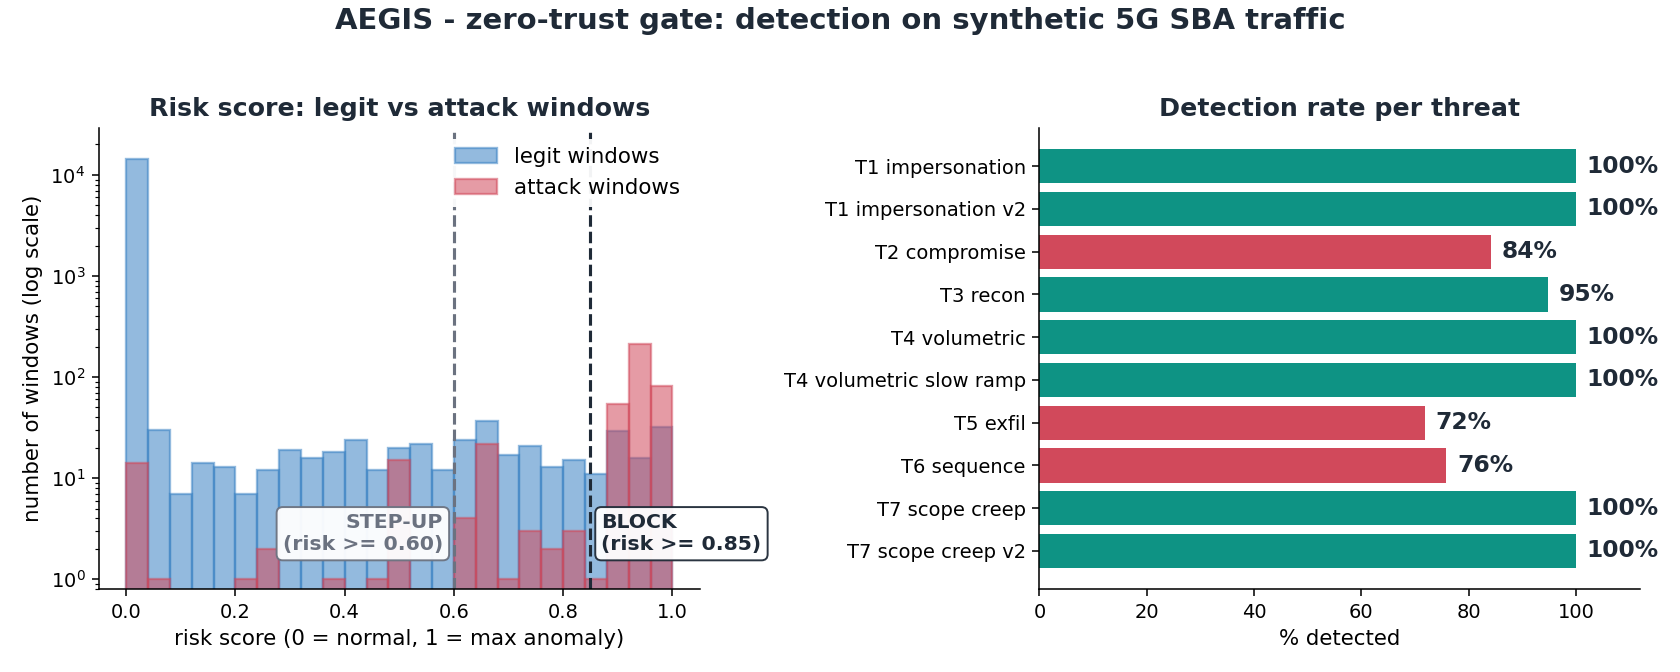
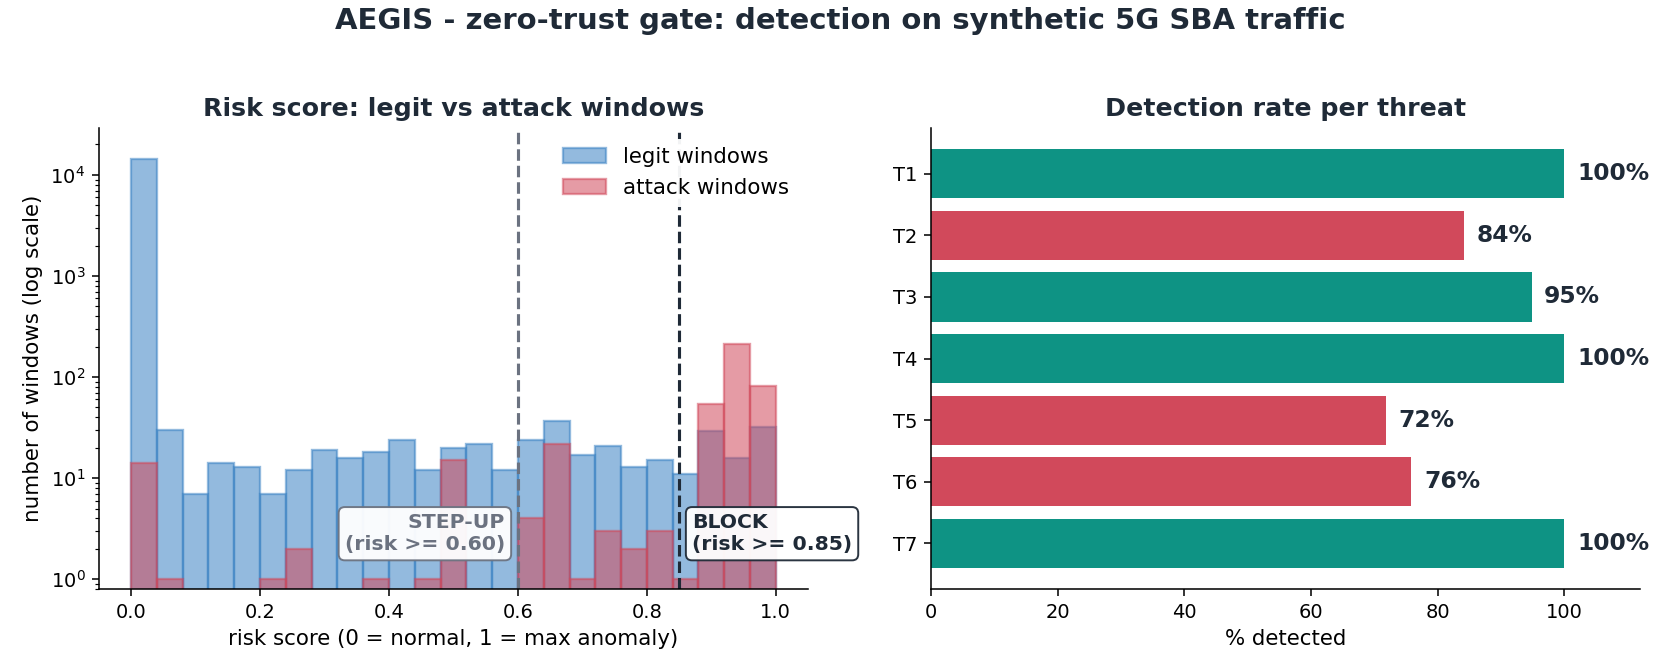
Collapse per-threat charts to 7 bars (T1-T7) instead of plotting variants separately
Both the baseline-comparison chart (slide 12) and the eval chart (slide
13) were plotting hardened/variant forms as their own bars
(T1_impersonation_v2, T4_volumetric_slow_ramp, T7_scope_creep_v2),
giving 10 bars instead of 7 with confusing labels. Aggregate by base
threat (weighted by window count) before plotting; aegis_detect.py's
own markdown report keeps the full per-variant breakdown, only the
figure is collapsed.

diff --git a/src/aegis_baseline_comparison.py b/src/aegis_baseline_comparison.py
@@ -112,13 +112,27 @@ def main():
     fpr_arr, tpr_arr, thresh_arr = roc_curve(y, test["spc_z"].to_numpy())
     idx = max(np.searchsorted(fpr_arr, FPR_TARGET, side="right") - 1, 0)
     spc_thresh = thresh_arr[idx]
-    per_spc = {}
+    per_spc_raw = {}
     for t, g in test[test.label == "attack"].groupby("attack_type"):
-        per_spc[t] = float((g["spc_z"] >= spc_thresh).mean())
-    per_aegis = {}
+        per_spc_raw[t] = (len(g), float((g["spc_z"] >= spc_thresh).mean()))
+    per_aegis_raw = {}
     STEPUP = 0.60
     for t, g in scored[scored.label == "attack"].groupby("attack_type"):
-        per_aegis[t] = float((g["risk"] >= STEPUP).mean())
+        per_aegis_raw[t] = (len(g), float((g["risk"] >= STEPUP).mean()))
+
+    # collapse hardened/variant forms (e.g. T1_impersonation_v2,
+    # T4_volumetric_slow_ramp) into their 7 base threats (T1-T7), weighted by
+    # window count, rather than plotting each variant as its own bar
+    def collapse(raw):
+        agg = {}
+        for t, (nwin, det) in raw.items():
+            base = t.split("_")[0]
+            n0, hit0 = agg.get(base, (0, 0.0))
+            agg[base] = (n0 + nwin, hit0 + det * nwin)
+        return {base: (hit / nwin if nwin else 0.0) for base, (nwin, hit) in agg.items()}
+
+    per_spc = collapse(per_spc_raw)
+    per_aegis = collapse(per_aegis_raw)
 
     # ---------------- figure ----------------
     import matplotlib
@@ -146,20 +160,7 @@ def main():
     x = np.arange(len(threats)); w = 0.38
     b.bar(x - w/2, [per_spc.get(t, 0)*100 for t in threats], width=w, color=SPCC, label="SPC baseline")
     b.bar(x + w/2, [per_aegis.get(t, 0)*100 for t in threats], width=w, color=ACC, label="AEGIS")
-    # short "T1"/"T1v2"/"T4-slow" codes only - two-line full names
-    # ("T1\nimpersonation", "T2\ncompromise", ...) ran wider than the
-    # per-bar spacing at 10 threat variants and visually merged into each
-    # other; full names are already spelled out in the deck's "Seven
-    # Threats We Watch For" slide, so only the variant suffix needs to
-    # survive here to tell the base and hardened forms apart.
-    def short_code(t):
-        code = t.split("_")[0]
-        if t.endswith("_v2"):
-            return code + "v2"
-        if t.endswith("_slow_ramp"):
-            return code + "-slow"
-        return code
-    b.set_xticks(x); b.set_xticklabels([short_code(t) for t in threats], fontsize=8.5)
+    b.set_xticks(x); b.set_xticklabels(threats, fontsize=9)
     b.set_ylabel("% detected")
     # headroom above the tallest (100%) bars so the legend has a guaranteed
     # empty spot instead of sitting on top of T1/T4/T7's bars

diff --git a/src/aegis_detect.py b/src/aegis_detect.py
@@ -456,10 +456,19 @@ def make_figure(test, per):
     for sp in ["top", "right"]:
         a.spines[sp].set_visible(False)
 
-    # (2) per-threat detection
+    # (2) per-threat detection - collapsed to the 7 base threats (T1-T7),
+    # weighted across hardened/variant forms (e.g. T1_impersonation_v2,
+    # T4_volumetric_slow_ramp) rather than plotting each variant as its own bar
+    agg = {}
+    for t, (nwin, det) in per.items():
+        base = t.split("_")[0]
+        n0, hit0 = agg.get(base, (0, 0.0))
+        agg[base] = (n0 + nwin, hit0 + det * nwin)
+    per_base = {base: (nwin, hit / nwin if nwin else 0.0) for base, (nwin, hit) in agg.items()}
+
     b = ax[1]
-    names = sorted(per)
-    vals = [per[t][1]*100 for t in names]
+    names = sorted(per_base, key=lambda t: int(t[1:]))
+    vals = [per_base[t][1]*100 for t in names]
     cols = [ACC if v >= 90 else ATKC for v in vals]
     b.barh(range(len(names)), vals, color=cols)
     b.set_yticks(range(len(names))); b.set_yticklabels([t.replace("_", " ") for t in names], fontsize=11)

diff --git a/reports/GATE-2/aegis_baseline_comparison.md b/reports/GATE-2/aegis_baseline_comparison.md
@@ -15,15 +15,12 @@
 
 | Threat | SPC baseline | AEGIS |
 |---|---|---|
-| T1_impersonation | 100% | 100% |
-| T1_impersonation_v2 | 100% | 100% |
-| T2_compromise | 34% | 84% |
-| T3_recon | 45% | 95% |
-| T4_volumetric | 100% | 100% |
-| T4_volumetric_slow_ramp | 100% | 100% |
-| T5_exfil | 72% | 72% |
-| T6_sequence | 31% | 76% |
-| T7_scope_creep | 76% | 100% |
-| T7_scope_creep_v2 | 9% | 100% |
+| T1 | 100% | 100% |
+| T2 | 34% | 84% |
+| T3 | 45% | 95% |
+| T4 | 100% | 100% |
+| T5 | 72% | 72% |
+| T6 | 31% | 76% |
+| T7 | 46% | 100% |
 
 SPC catches loud, single-feature deviations (volumetric spikes) reasonably well, since that is exactly what it is built for, but it has no notion of scope, sequence, or cross-window behaviour - so it is structurally blind to threats like scope creep or orphaned session sequences that never show up as a single feature outlier. That gap is the concrete, measured case for the fingerprinting and rules-plus-ML fusion approach over the classic baseline, not just an architectural preference.
